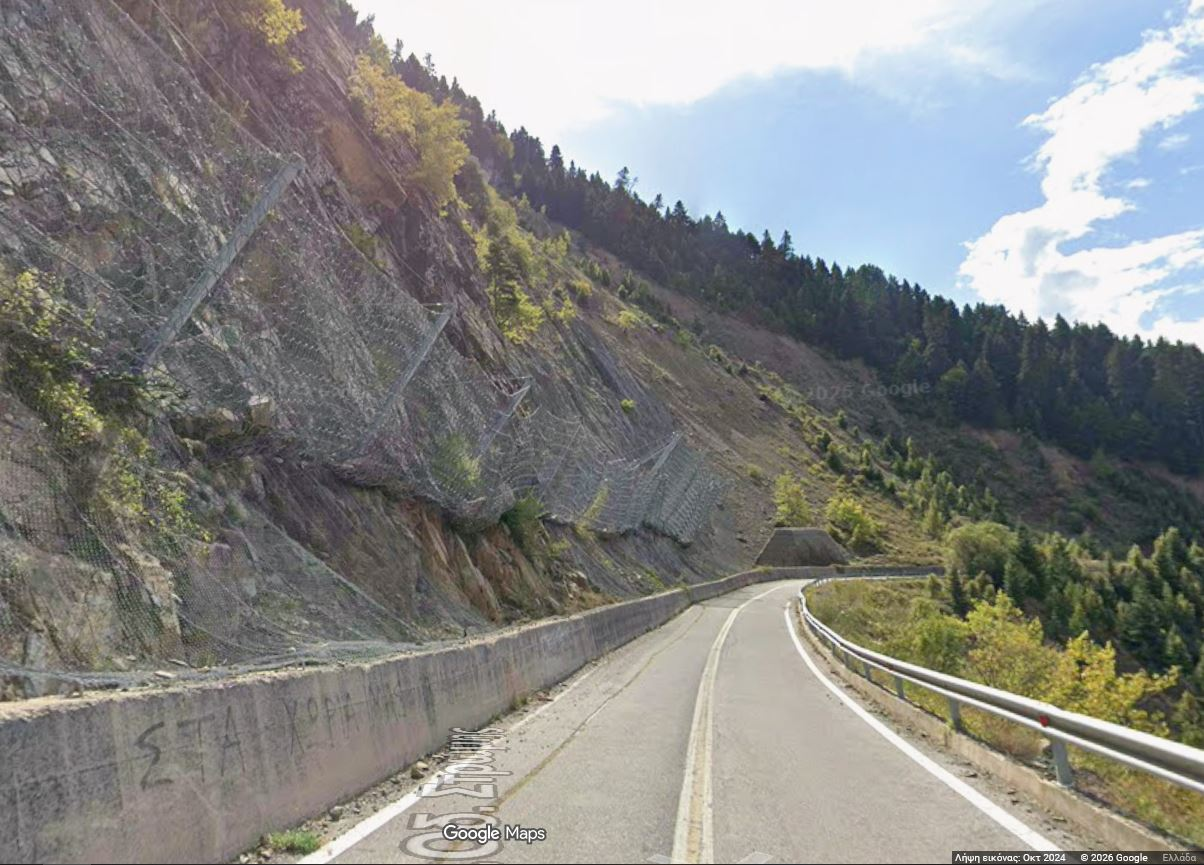
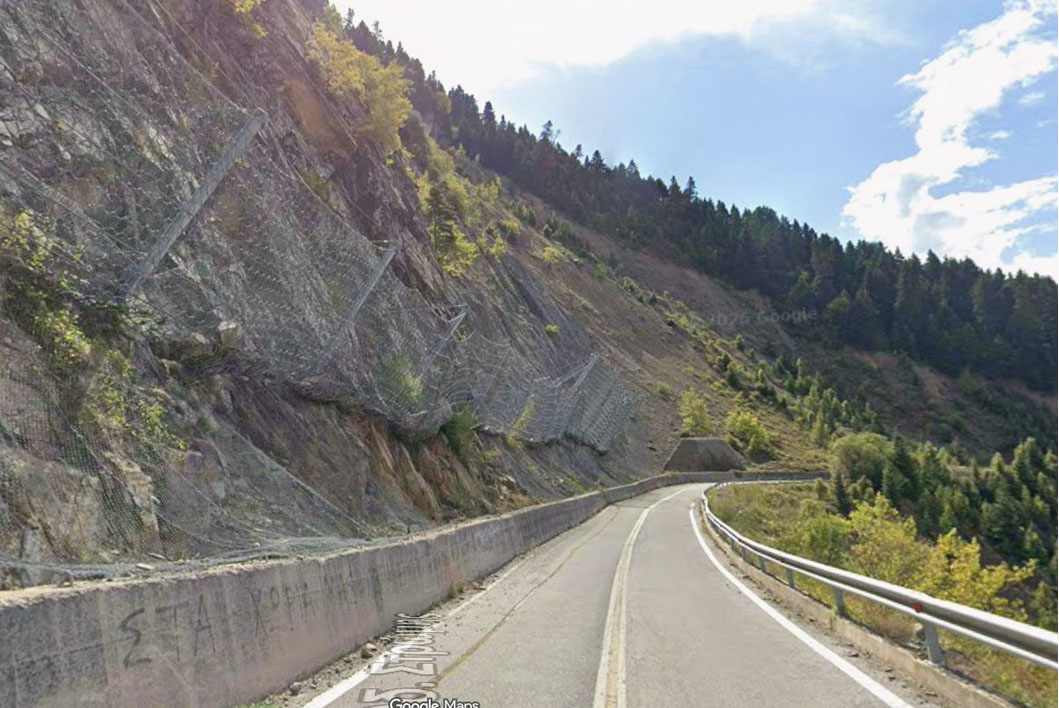
fix: update image references and add new placeholder image for project2

diff --git a/rockfall-retention-works.html b/rockfall-retention-works.html
@@ -126,22 +126,32 @@
 
           <div class="detail-gallery">
             <div class="img span-6"><img src="assets/project2-1.JPG" alt="Άποψη εκδήλωσης βραχοπτώσεων σε παλαιότερα έτη" /></div>
+
             <div class="img span-3">
               <img src="assets/project2-2.JPG" alt="Άποψη εκδήλωσης βραχοπτώσεων πάνω σε υφιστάμενο προ μελέτης τοίχο Ω/Σ" />
             </div>
-            <div class="img span-3"><img src="assets/project2-3.JPG" alt="Προσομοίωση με το RocFall" /></div>
+
+            <div class="img span-3">
+              <img src="assets/project2-3.JPG" alt="Προσομοίωση με το RocFall" />
+            </div>
+
             <div class="img span-3">
               <img src="assets/project2-4.JPG" alt="Προσομοίωση με το PLAXIS 2D οπλισμένου αναχώματος ανάσχεσης βραχοπτώσεων" />
             </div>
-            <div class="img span-3"><img src="assets/project2-5.jpg" alt="Κατασκευή έργου" /></div>
-            <div class="img span-3"><img src="assets/project2-6.JPG" alt="Ολοκληρωμένο έργο (street view)" /></div>
-            <div class="img span-3"><img src="assets/project2-7.JPG" alt="Ολοκληρωμένο έργο (street view)" /></div>
-            <div class="img span-6" style="background: #fff; aspect-ratio: 21/10">
-              <img
-                src="assets/project2-placeholder.jpg"
-                alt="Σχέδια οριζοντιογραφίας - τομών"
-                style="object-fit: contain; padding: 1.5rem"
-              />
+            <div class="img span-3">
+              <img src="assets/project2-5.jpg" alt="Κατασκευή έργου" />
+            </div>
+
+            <div class="img span-3">
+              <img src="assets/project2-6.JPG" alt="Ολοκληρωμένο έργο (street view)" />
+            </div>
+
+            <div class="img span-3">
+              <img src="assets/project2-7.jpg" alt="foto google" />
+            </div>
+
+            <div class="img span-3">
+              <img src="assets/project2-placeholder.jpg" alt="Σχέδια οριζοντιογραφίας - τομών" />
             </div>
           </div>
 

diff --git a/index.html b/index.html
@@ -445,12 +445,7 @@
               <div class="img img-a">
                 <img src="assets/project2-1.JPG" alt="Έργο ανάσχεσης βραχοπτώσεων — Στρώμη, Φωκίδα" loading="lazy" />
               </div>
-              <div class="img img-b"><img src="assets/project2-2.JPG" alt="Άποψη του υφιστάμενου τοίχου" loading="lazy" /></div>
-              <div class="img img-c"><img src="assets/project2-3.JPG" alt="Λεπτομέρεια θεμελίωσης με οπλισμό" loading="lazy" /></div>
-              <div class="img img-c"><img src="assets/project2-4.JPG" alt="Λεπτομέρεια θεμελίωσης με οπλισμό" loading="lazy" /></div>
-              <div class="img img-c"><img src="assets/project2-5.jpg" alt="Λεπτομέρεια θεμελίωσης με οπλισμό" loading="lazy" /></div>
-              <div class="img img-c"><img src="assets/project2-6.JPG" alt="Λεπτομέρεια θεμελίωσης με οπλισμό" loading="lazy" /></div>
-              <div class="img img-c"><img src="assets/project2-7.JPG" alt="Λεπτομέρεια θεμελίωσης με οπλισμό" loading="lazy" /></div>
+              <div class="img img-a"><img src="assets/project2-6.JPG" alt="Λεπτομέρεια θεμελίωσης με οπλισμό" loading="lazy" /></div>
 
               <div class="img img-d">
                 <img src="assets/project2-placeholder.jpg" alt="Αριθμητική ανάλυση με λογισμικό πεπερασμένων στοιχείων" loading="lazy" />